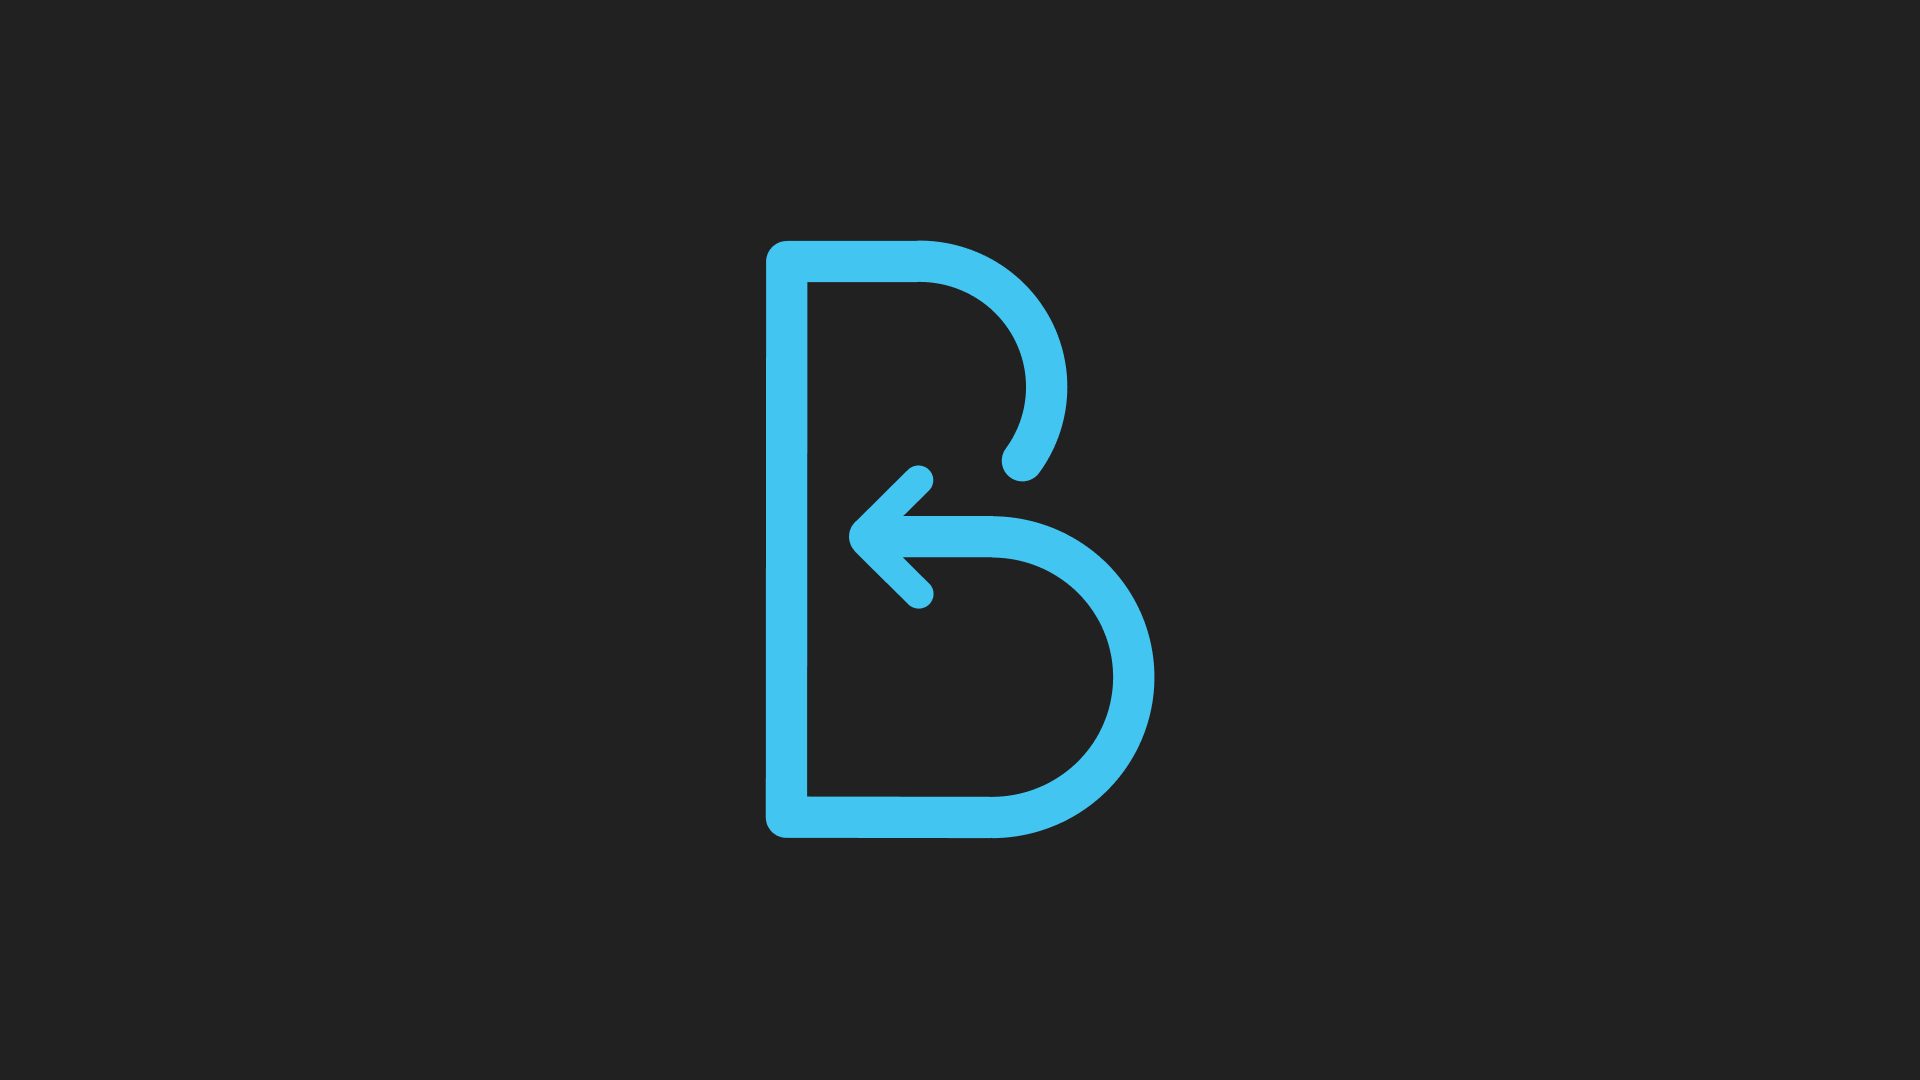
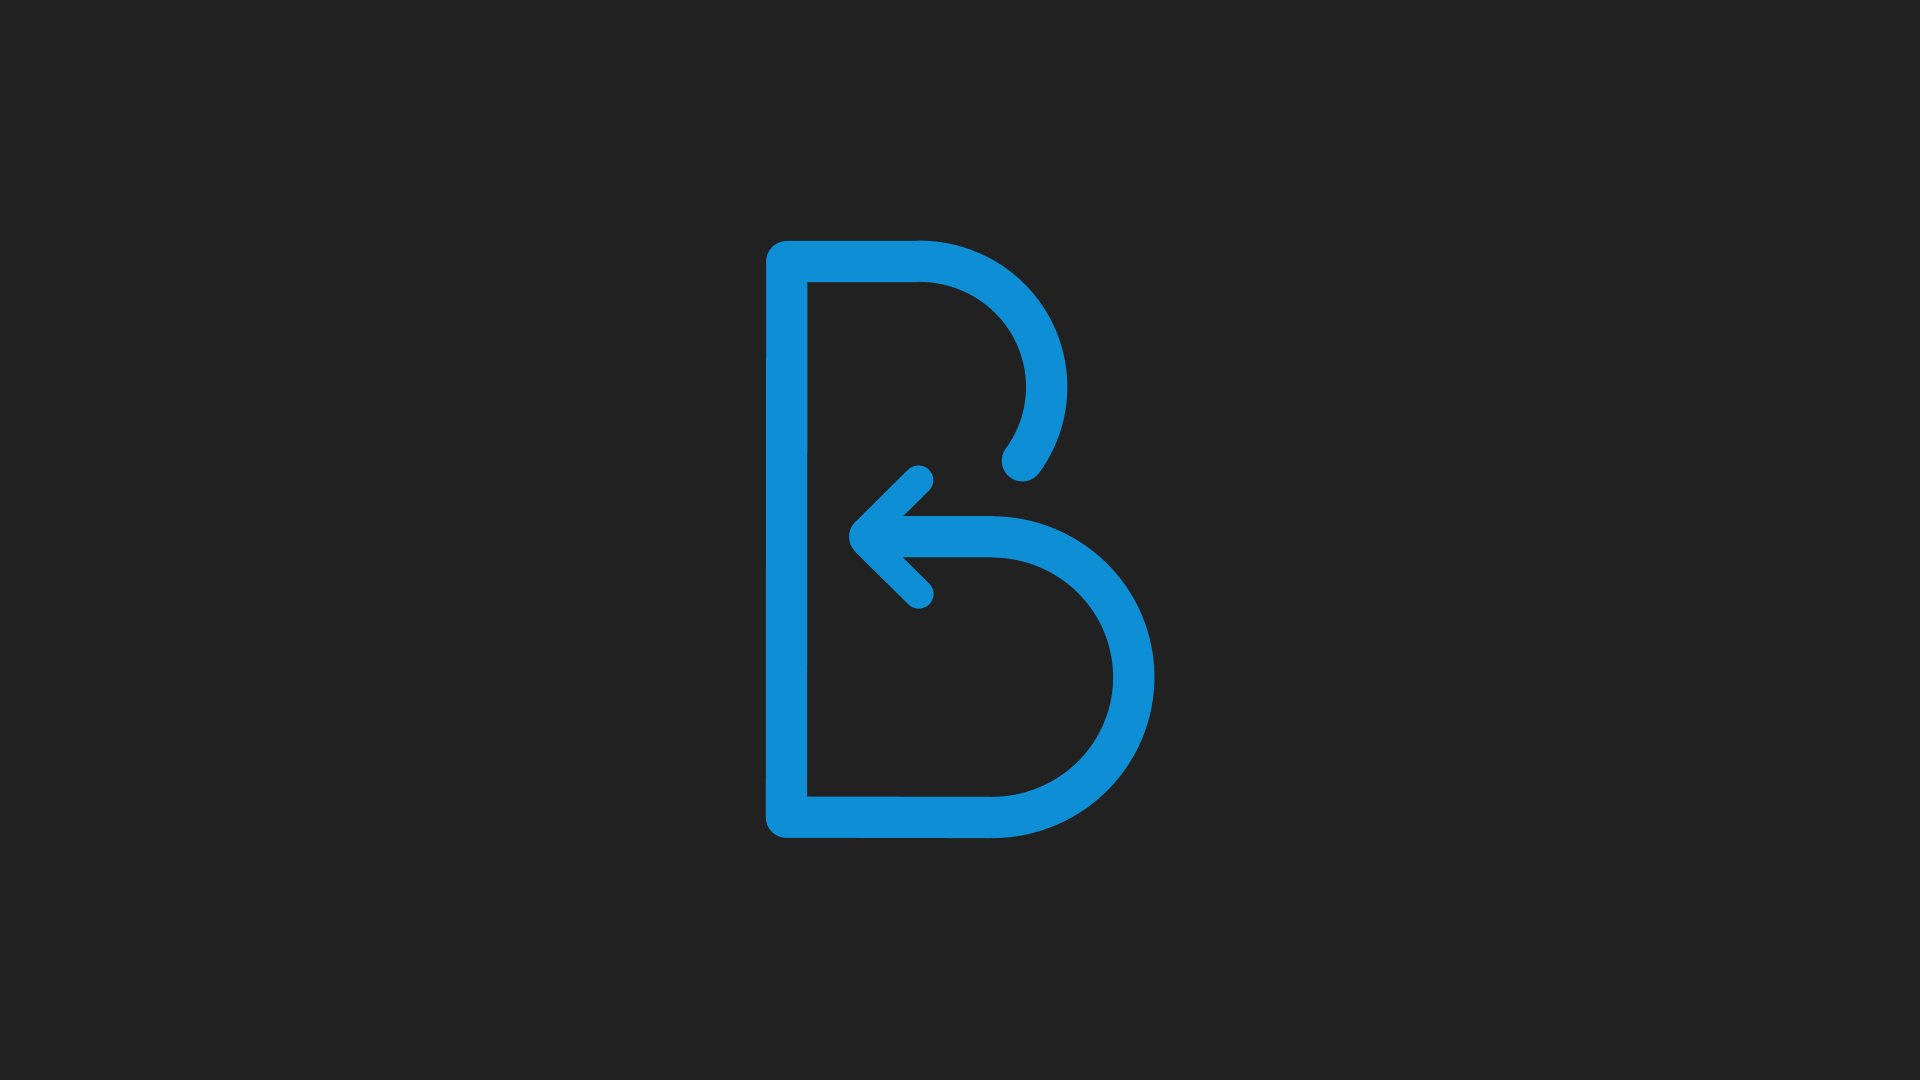
new color(s)

Changed region(s): [[0.375, 0.2139, 0.625, 0.7944]]

diff --git a/src/components/layout.js b/src/components/layout.js
@@ -28,57 +28,45 @@ const Layout = ({ children }) => (
 
           ::-moz-selection {
             /* Code for Firefox */
-            background: #42c5f1;
-            color: var(--bg);
+            background-color: var(--selection);
+            color: var(--text);
           }
 
           ::selection {
-            background: #42c5f1;
-            color: var(--bg);
+            background-color: var(--selection);
+            color: var(--text);
           }
 
           :focus {
-            outline-color: var(--link);
+            outline-color: var(--main);
             outline-style: dashed;
             outline-offset: 2px;
             outline-width: 2px;
-            /* outline: 0; */
           }
         }
 
-        /* * + * {
-            margin-top: 1rem;
-          } */
-
-        /* colors */
-
         body {
-          --bg: #f7f7f7; /* 1 */
+          --bg: #f7f7f7;
           --nav: #1f1f1f;
-          --main: #42c5f1; /* 7 */
-          --heading: #222222; /* 10 */
-          --parameters: #626262; /* 6 */
-          --text: #222222; /* 9 */
-          --link: #42c5f1; /* 7 */
-          --line: #cfcfcf; /* 3 */
-          /* --shadoww: 0 5px 10px rgba(155, 160, 185, 0.5), 0 15px 40px rgba(165, 175, 200, 0.8); */
-          /* --shadow: 2px 4px 25px rgba(0, 0, 0, 0.15); */
+          --main: #0c78b3;
+          --heading: #222222;
+          --text: #222222;
+          --parameters: #626262;
+          --line: #cfcfcf;
+          --selection: rgba(12, 120, 179, 0.99);
           --shadow: 0 0 3px rgba(0, 0, 0, 0.3);
           --radius: 5px;
         }
 
         body.dark {
           --bg: #121212;
-          /* --bg: #303030; */
           --nav: #1f1f1f;
-          --main: #42c5f1; /* 7 */
-          --heading: #e1e1e1; /* 1 */
-          --parameters: #a0a0a0; /* 4 */
-          --text: #e1e1e1; /* 2 */
-          --link: #42c5f1; /* 7 */
-          --line: #515151; /* 8 */
-          /* --shadow: 0 5px 10px rgba(23, 23, 23, 0.5), 0 15px 40px rgba(21, 21, 21, 0.8); */
-          /* --shadow: 2px 4px 25px rgba(0, 0, 0, 0.15); */
+          --main: #0e8fd5;
+          --heading: #e1e1e1;
+          --text: #e1e1e1;
+          --parameters: #a0a0a0;
+          --line: #515151;
+          --selection: rgba(14, 143, 213, 0.99);
           --shadow: 0 0 3px rgba(0, 0, 0, 0.3);
           --radius: 5px;
         }
@@ -89,6 +77,7 @@ const Layout = ({ children }) => (
           /* margin-bottom: -50px; */
           background-color: var(--bg);
           position: relative;
+          /* transition: color 0.2s ease-out, background 0.2s ease-out; */
         }
 
         html,
@@ -206,18 +195,24 @@ const Layout = ({ children }) => (
           }
 
           a {
-            color: var(--link);
-            text-decoration: none;
+            color: var(--main);
+            /* text-decoration: none; */
+            text-decoration: underline;
+            text-underline-position: under;
+            /* text-decoration-color: red; */
+            /* border-bottom: 1px solid var(--main); */
+
+            :hover,
+            :focus {
+              text-decoration: none;
+            }
 
             ::-moz-selection {
-              /* Code for Firefox */
-              background: var(--link);
-              color: var(--heading);
+              text-decoration-color: var(--text);
             }
 
             ::selection {
-              background: var(--link);
-              color: var(--heading);
+              text-decoration-color: var(--text);
             }
           }
         }
@@ -239,10 +234,6 @@ const Layout = ({ children }) => (
           box-shadow: none !important;
           border-radius: 0;
         }
-
-        /* p > div {
-          display: inline;
-        } */
 
         .gatsby-highlight-code-line {
           background-color: #012a4a;
@@ -287,6 +278,11 @@ const Layout = ({ children }) => (
           overflow: initial;
           float: left; /* 1 */
           min-width: 100%;
+        }
+
+        p > code {
+          padding: 0.2rem 0.4rem;
+          border-radius: var(--radius);
         }
 
         /* .activeLink {

diff --git a/src/components/footer.js b/src/components/footer.js
@@ -4,7 +4,7 @@ import styled from '@emotion/styled'
 import { Link } from 'gatsby'
 
 const Wrapper = styled.footer`
-  background-color: var(--bg);
+  /* background-color: var(--bg); */
   position: absolute;
   bottom: 0;
   width: 100%;
@@ -23,7 +23,7 @@ const FooterBox = styled.div`
   align-self: center;
 
   a {
-    color: var(--link);
+    color: var(--main);
     font-size: 0.9rem;
 
     @media (max-width: 525px) {
@@ -78,7 +78,15 @@ const Footer = () => (
           Twitter
         </a>
       </div>
-      <Link to="/license/">
+      <Link
+        to="/license/"
+        css={css`
+          text-decoration: none;
+          :focus {
+            outline: 0;
+          }
+        `}
+      >
         <Copyright>
           <span>&copy; 2019 Bartol Deak. </span>
           <span>All rights reserved.</span>

diff --git a/src/styles/prism.css b/src/styles/prism.css
@@ -29,7 +29,7 @@ code[class*='language-'] ::-moz-selection {
 
   /* Code for Firefox */
   background: var(--main);
-  color: var(--bg);
+  color: #e1e1e1;
 }
 
 pre[class*='language-']::selection,
@@ -39,7 +39,7 @@ code[class*='language-'] ::selection {
   text-shadow: none;
 
   background: var(--main);
-  color: var(--bg);
+  color: #e1e1e1;
 }
 
 @media print {

diff --git a/gatsby-config.js b/gatsby-config.js
@@ -178,7 +178,7 @@ module.exports = {
       resolve: 'gatsby-plugin-nprogress',
       options: {
         // Setting a color is optional.
-        color: '#42c5f1',
+        color: '#0e8fd5',
         // Disable the loading spinner.
         showSpinner: false,
       },

diff --git a/src/components/newsletter-form.js b/src/components/newsletter-form.js
@@ -71,12 +71,8 @@ const ButtonBox = styled.button`
   color: #a0a0a0;
   outline: none;
 
-  /* :hover {
-    border-color: var(--main);
-  } */
-
   :focus {
-    /* color: var(--main); */
+    color: var(--main);
     border-color: var(--main);
     outline: 0;
   }

diff --git a/src/components/scroll.js b/src/components/scroll.js
@@ -10,7 +10,8 @@ const ProgressContainer = styled.div`
 
 const ProgressBar = styled.div`
   height: 100%;
-  background: var(--main);
+  /* background: var(--main); */
+  background: #0e8fd5;
   width: 0%;
 `
 
